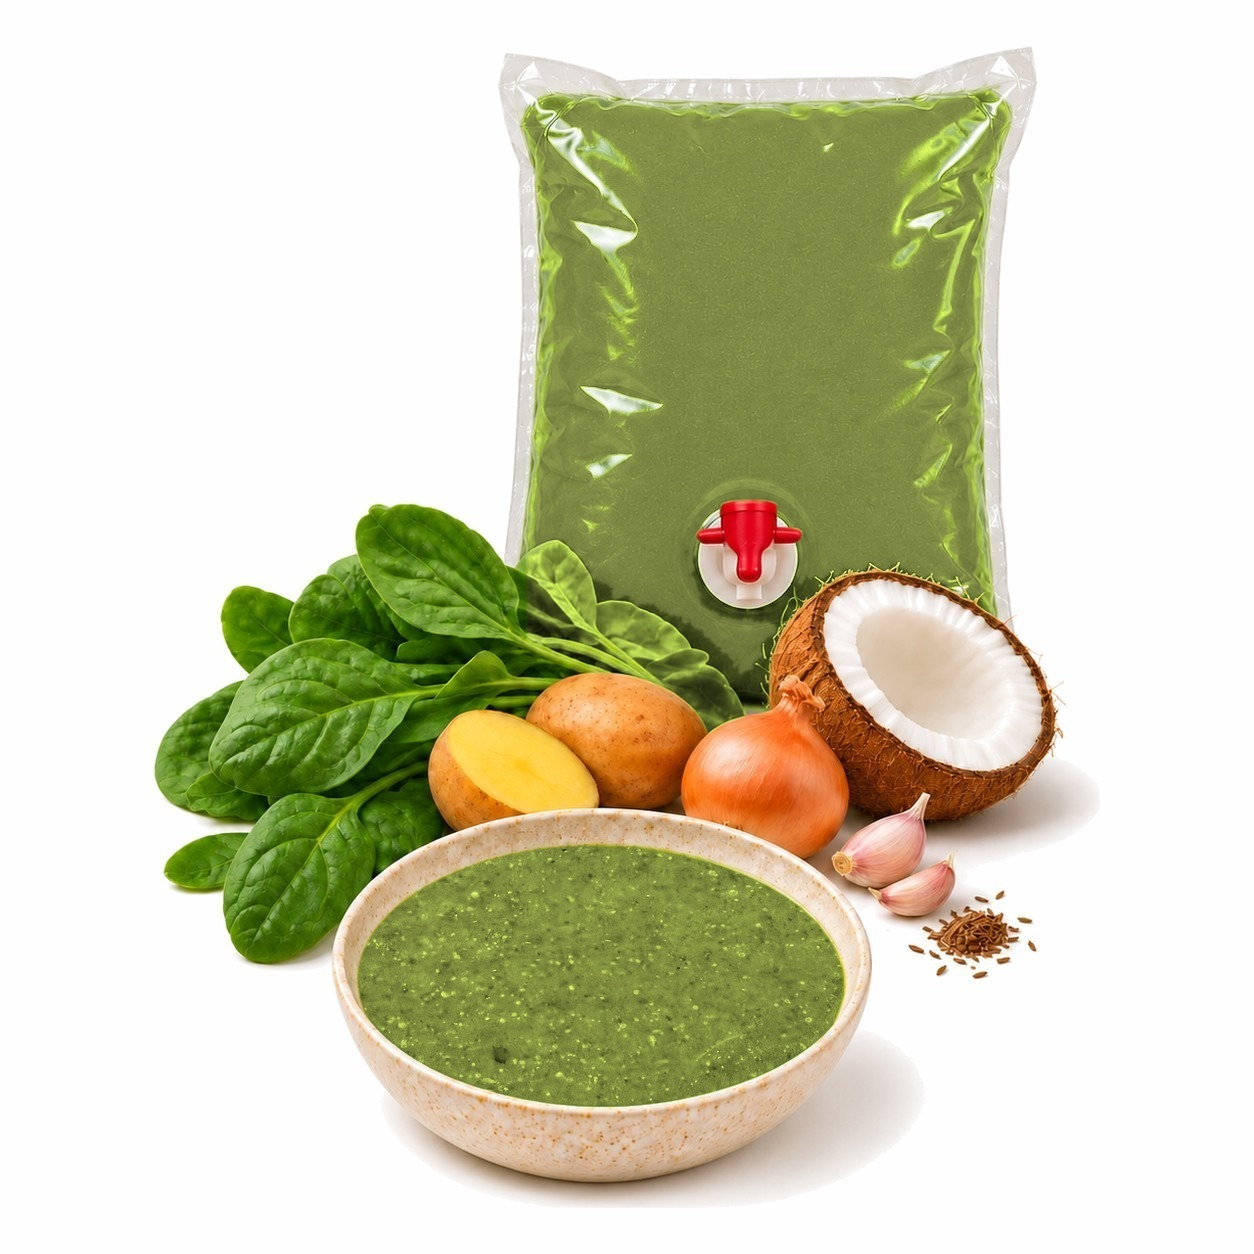
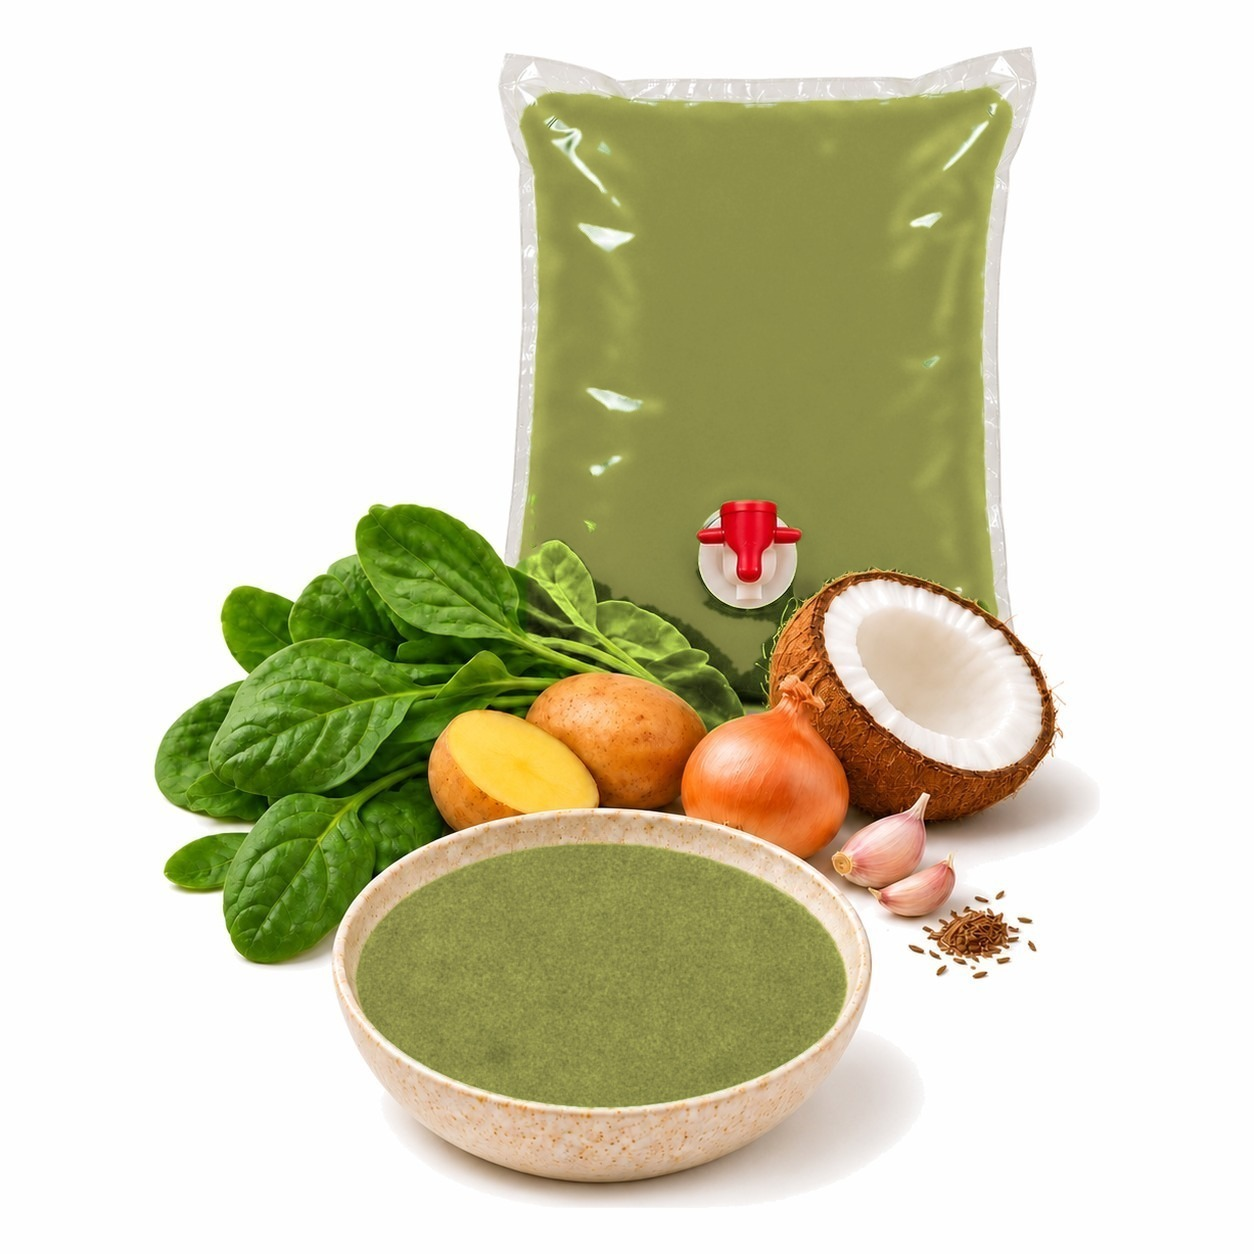
Špenátová polévka: fotky podle reálné barvy a povrchu (#594)
Claude-Session: https://claude.ai/code/session_016QL8fyP6fDGx2RMwKgd8AU

diff --git a/dashboard/lib/eshop/productImages.ts b/dashboard/lib/eshop/productImages.ts
@@ -44,6 +44,8 @@ const BACKDROP: Record<string, string> = {
   "/eshop/polevky/dynova-polevka-begina-v5.jpg": "#fefefe",
   "/eshop/polevky/rajcatova-polevka-miska-v5.jpg": "#fefefe",
   "/eshop/polevky/rajcatova-polevka-begina-v5.jpg": "#fefefe",
+  "/eshop/polevky/spenatova-polevka-miska-v5.jpg": "#fefefe",
+  "/eshop/polevky/spenatova-polevka-begina-v5.jpg": "#fefefe",
   "/eshop/polevky/rajcatova-polevka-miska-v3.jpg": "#fefefe",
   "/eshop/polevky/rajcatova-polevka-s-cervenou-repou-miska-v3.jpg": "#fefefe",
   "/eshop/polevky/kulajda-miska.jpg": "#fafafb",
